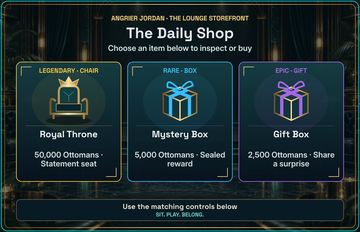
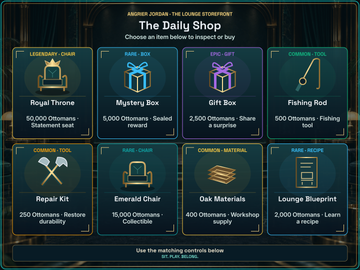
Show eight Economy items per page in a four-by-two grid

diff --git a/angrier_jordan_precode_construction_pack_v1/packages/features-economy/src/presentation.ts b/angrier_jordan_precode_construction_pack_v1/packages/features-economy/src/presentation.ts
@@ -26,25 +26,25 @@ function itemMotif(motif:string|undefined,x:number,y:number,accent:string):strin
  return `<g data-item-motif="${escape(key)}" transform="translate(${x} ${y})">${shape}</g>`;
 }
 function renderItemGallery(input:EconomyPresentationInput):string {
- const palette=[0xf4c542,0x38bdf8,0xa469e2,0x10b981,0xf59e0b,0x0ea5a6],cards=input.cards?.slice(0,6)??[];
- const rows=Math.max(1,Math.ceil(cards.length/3)),height=rows===2?1080:710,top=190,footerY=height-100;
+ const palette=[0xf4c542,0x38bdf8,0xa469e2,0x10b981,0xf59e0b,0x0ea5a6],cards=input.cards?.slice(0,8)??[];
+ const columns=cards.length>3?4:3,width=columns===4?1440:1100,center=width/2,rows=Math.max(1,Math.ceil(cards.length/columns)),height=rows===2?1080:710,top=190,footerY=height-100;
  const titles={shop:'THE LOUNGE STOREFRONT',inventory:'YOUR PERSONAL COLLECTION',collection:'THE CHAIR GALLERY',craft:'THE CHAIR WORKSHOP'};
- let body=text(550,63,'ANGRIER JORDAN · '+titles[input.mode!],20,'#F4D17B',true);
- economyWrap(input.title,36,1).forEach(t=>body+=text(550,117,t,46,'#E6EAF0',true));
- economyWrap(input.summary??input.description??'',70,1).forEach(t=>body+=text(550,156,t,24,'#D3E9E5'));
- if(!cards.length){body+='<rect x="50" y="190" width="1000" height="385" rx="18" fill="url(#glass)" stroke="#D4B06C"/>'+itemMotif(input.mode==='craft'?'workshop':input.mode==='collection'?'chair':'box',550,288,'#10B981');economyWrap(input.description??'Your next discovery starts here.',52,3).forEach((t,j)=>body+=text(550,422+j*38,t,30));}
+ let body=text(center,63,'ANGRIER JORDAN · '+titles[input.mode!],20,'#F4D17B',true);
+ economyWrap(input.title,36,1).forEach(t=>body+=text(center,117,t,46,'#E6EAF0',true));
+ economyWrap(input.summary??input.description??'',70,1).forEach(t=>body+=text(center,156,t,24,'#D3E9E5'));
+ if(!cards.length){body+='<rect x="50" y="190" width="1000" height="385" rx="18" fill="url(#glass)" stroke="#D4B06C"/>'+itemMotif(input.mode==='craft'?'workshop':input.mode==='collection'?'chair':'box',550,288,'#10B981');economyWrap(input.description??'Your next discovery starts here.',52,3).forEach((t,j)=>body+=text(center,422+j*38,t,30));}
  for(const [i,card]of cards.entries()){
-  const rowCount=Math.min(3,cards.length-Math.floor(i/3)*3),startX=(1100-(rowCount*320+(rowCount-1)*20))/2;
-  const x=startX+i%3*340,y=top+Math.floor(i/3)*385,c=color(card.accent??palette[i]!);
+  const rowCount=Math.min(columns,cards.length-Math.floor(i/columns)*columns),startX=(width-(rowCount*320+(rowCount-1)*20))/2;
+  const x=startX+i%columns*340,y=top+Math.floor(i/columns)*385,c=color(card.accent??palette[i%palette.length]!);
   body+=`<g data-item-card="${i}"><rect x="${x}" y="${y}" width="320" height="365" rx="16" fill="url(#glass)" stroke="${c}" stroke-width="2"/><path d="M${x+15} ${y+42}V${y+15}H${x+46}M${x+274} ${y+350}H${x+305}V${y+323}" stroke="#E0C27E" fill="none" stroke-width="2"/><ellipse cx="${x+160}" cy="${y+120}" rx="113" ry="95" fill="${c}" opacity=".07"/><path d="M${x+27} ${y+195}H${x+293}" stroke="${c}" opacity=".45"/>`;
   body+=text(x+160,y+33,economyWrap(card.badge??'LOUNGE ESSENTIAL',22,1)[0]??'',20,c,true)+itemMotif(card.motif,x+160,y+115,c);
   economyWrap(card.name,20,2).forEach((t,j)=>body+=text(x+160,y+230+j*30,t,28,'#F1F4F7',true));
   economyWrap(card.detail,23,3).forEach((t,j)=>body+=text(x+160,y+292+j*27,t,24,'#D7E5E3'));
   body+='</g>';
  }
- body+=`<rect x="50" y="${footerY}" width="1000" height="65" rx="12" fill="#081B25" stroke="#B9985A"/>`;
- economyWrap(input.footer??'Use the matching controls below',76,1).forEach(t=>body+=text(550,footerY+29,t,22,'#ECE2CB',true));body+=text(550,footerY+52,'SIT. PLAY. BELONG.',17,'#72D5C6',true);
- return `<svg xmlns="http://www.w3.org/2000/svg" width="1100" height="${height}" viewBox="0 0 1100 ${height}"><defs><linearGradient id="glass" x2="0" y2="1"><stop stop-color="#153D43" stop-opacity=".96"/><stop offset="1" stop-color="#07121D" stop-opacity=".96"/></linearGradient><linearGradient id="brass"><stop stop-color="#77521F"/><stop offset=".48" stop-color="#FFE29A"/><stop offset="1" stop-color="#997132"/></linearGradient><linearGradient id="upholstery" x2="0" y2="1"><stop stop-color="#1B7775"/><stop offset="1" stop-color="#09242C"/></linearGradient></defs><image href="${art()}" width="1100" height="${height}" preserveAspectRatio="xMidYMid slice"/><rect width="1100" height="${height}" fill="#06151D" opacity=".57"/>${body}<rect x="4" y="4" width="1092" height="${height-8}" rx="19" fill="none" stroke="#0EA5A6" stroke-width="3"/><rect x="14" y="14" width="1072" height="${height-28}" rx="14" fill="none" stroke="url(#brass)" stroke-width="2"/></svg>`;
+ body+=`<rect x="50" y="${footerY}" width="${width-100}" height="65" rx="12" fill="#081B25" stroke="#B9985A"/>`;
+ economyWrap(input.footer??'Use the matching controls below',76,1).forEach(t=>body+=text(center,footerY+29,t,22,'#ECE2CB',true));body+=text(center,footerY+52,'SIT. PLAY. BELONG.',17,'#72D5C6',true);
+ return `<svg xmlns="http://www.w3.org/2000/svg" width="${width}" height="${height}" viewBox="0 0 ${width} ${height}"><defs><linearGradient id="glass" x2="0" y2="1"><stop stop-color="#153D43" stop-opacity=".96"/><stop offset="1" stop-color="#07121D" stop-opacity=".96"/></linearGradient><linearGradient id="brass"><stop stop-color="#77521F"/><stop offset=".48" stop-color="#FFE29A"/><stop offset="1" stop-color="#997132"/></linearGradient><linearGradient id="upholstery" x2="0" y2="1"><stop stop-color="#1B7775"/><stop offset="1" stop-color="#09242C"/></linearGradient></defs><image href="${art()}" width="${width}" height="${height}" preserveAspectRatio="xMidYMid slice"/><rect width="${width}" height="${height}" fill="#06151D" opacity=".57"/>${body}<rect x="4" y="4" width="${width-8}" height="${height-8}" rx="19" fill="none" stroke="#0EA5A6" stroke-width="3"/><rect x="14" y="14" width="${width-28}" height="${height-28}" rx="14" fill="none" stroke="url(#brass)" stroke-width="2"/></svg>`;
 }
 const brand=JSON.parse(readFileSync(new URL('../../../production/theme/brand.json',import.meta.url),'utf8')) as {typography:{heading:string;body:string}};
 let lounge:string|undefined;

diff --git a/angrier_jordan_precode_construction_pack_v1/apps/bot/src/discord/item-view-models.ts b/angrier_jordan_precode_construction_pack_v1/apps/bot/src/discord/item-view-models.ts
@@ -1,6 +1,6 @@
 import type {ItemState} from '../../../../packages/features-economy/src/items-types.js';
 import type {ItemService} from '../../../../packages/features-economy/src/items-service.js';
-export const ITEM_PAGE_SIZE=3;
+export const ITEM_PAGE_SIZE=8;
 export function itemPage<T>(items:T[],requested=0){const pages=Math.max(1,Math.ceil(items.length/ITEM_PAGE_SIZE)),page=Math.min(pages-1,Math.max(0,Number.isFinite(requested)?Math.floor(requested):0));return {items:items.slice(page*ITEM_PAGE_SIZE,(page+1)*ITEM_PAGE_SIZE),page,pages};}
 export function inventoryCategories(rows:ReturnType<ItemService['inventory']>){return [...new Set(rows.map(x=>x.item.type))].sort().slice(0,24);}
 export function inventoryCard(state:ItemState,userId:string,x:ReturnType<ItemService['inventory']>[number]){
